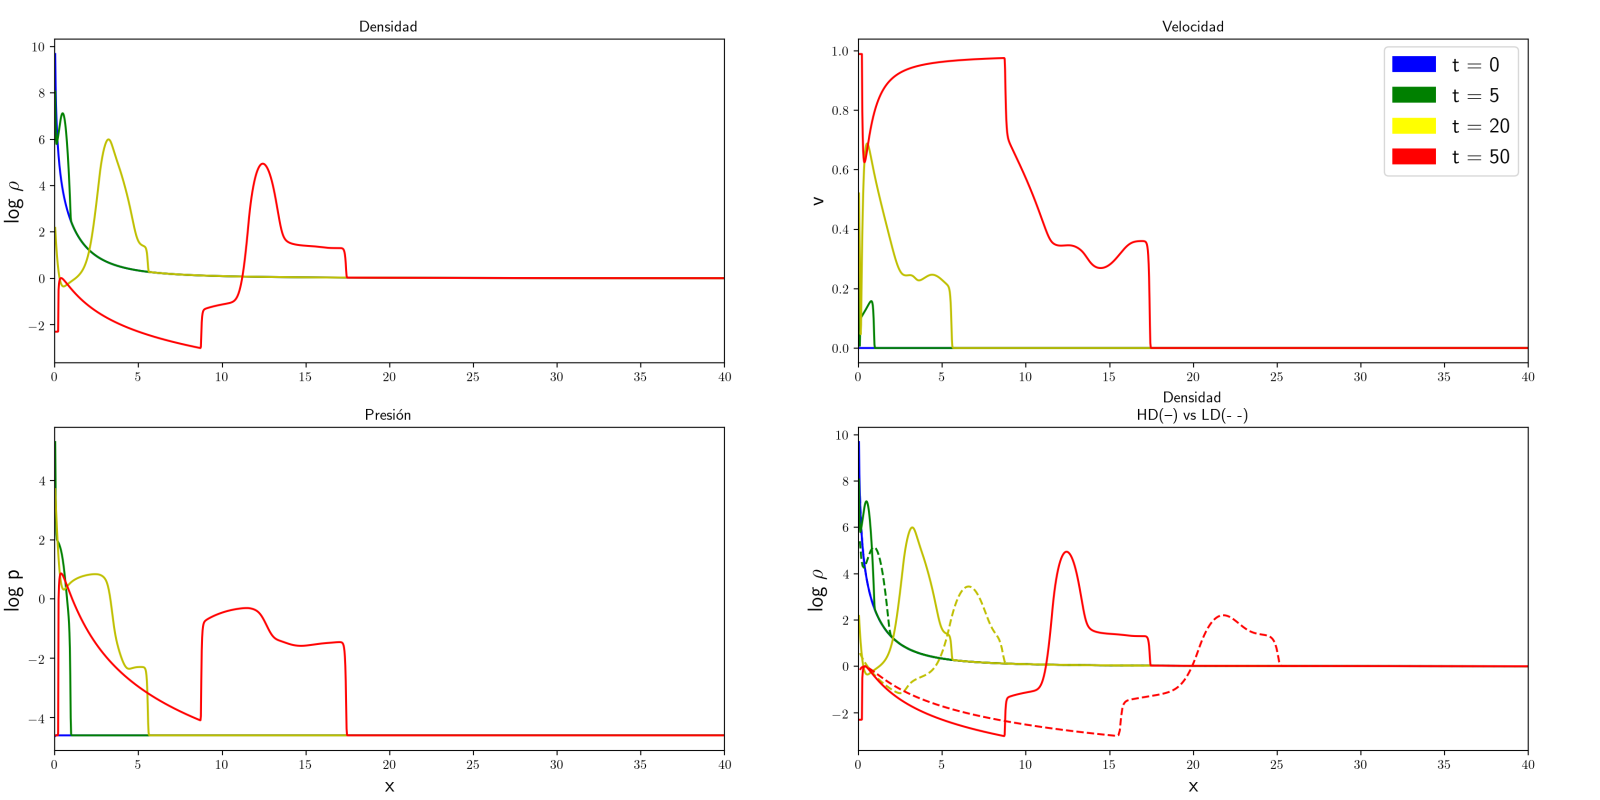
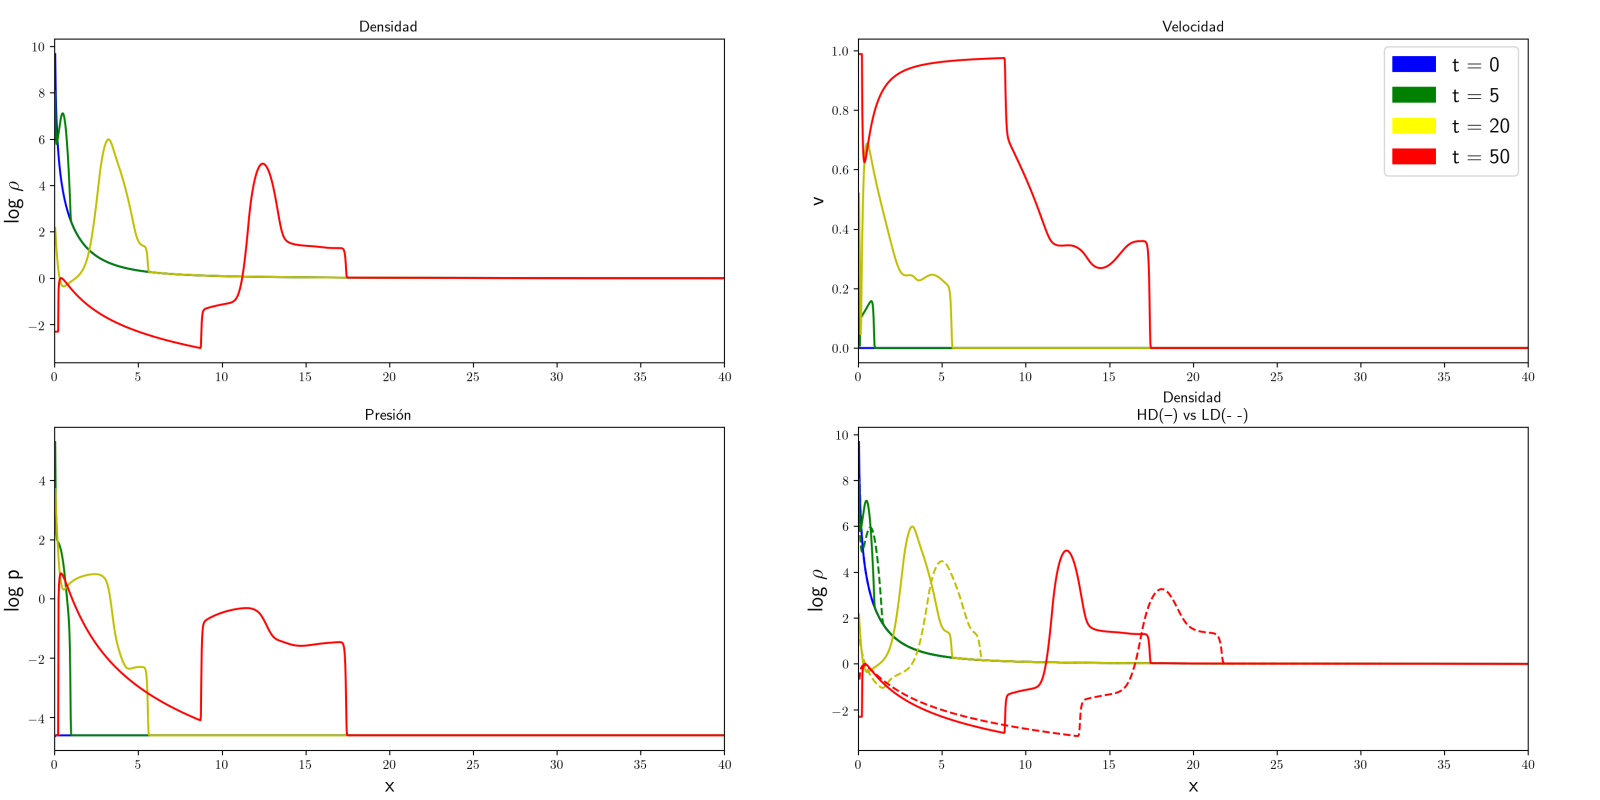
Discusion completa del capitulo 4

Changed region(s): [[0.5312, 0.6562, 0.9688, 0.9375], [0.6562, 0.6875, 0.6875, 0.7188]]

diff --git a/main.tex b/main.tex
@@ -2506,7 +2506,7 @@ La velocidad tiene un máximo en
 $x \approx 0.2$, donde alcanza  $v \approx 0.6$ al tiempo t = 5. {\color{blue} Para los tiempos t = 20, 50 ya no 
 presenta máximos sino que decae rápidamente en las posiciones $x \approx 6, \, 20$ respectivamente.}
 La presión no tiene un máximo local al tiempo t = 5, aunque si un cambio menos abrupto en $x = 1$. 
-{\color{blue} En los tiempos t = 20, 50 los maximos se situan en $x \approx 12$ y en $x \approx 30$}.
+{\color{blue} En los tiempos t = 20, 50 los máximos se situan en $x \approx 12$ y en $x \approx 30$}.
 En el panel inferior derecho, al comparar el logaritmo de la densidad en resoluciones de 3200x1600 y 1600x800,
 notamos que a diferencia del medio constante, no hay un desfase tan grande ya que para 
 $t = 5, \, x_{alta}- x_{baja} \approx 0$; para $t = 20, \, x_{alta}- x_{baja} \approx 0$ 
@@ -2519,14 +2519,29 @@ y para $t = 50, \, x_{alta}- x_{baja} \approx 1$}.
   \caption{{\color{red} Perfiles de densidad, presión y velocidad, similar a la Figura \ref{fig:comparacion_perfil_radial},
   a lo largo de $y = 10$. El panel de arriba a la izquierda muestra el logaritmo de la densidad, el de arriba a la derecha la
   velocidad, el de abajo a la izquierda el logaritmo de la presión y el panel de abajo a la derecha muestra la comparación entre
-  uno de mayor resolución (2000x1000, linea solida) con uno de baja resolución (1000X500,
+  uno de mayor resolución (2000x1000, linea sólida) con uno de baja resolución (1000X500,
   linea punteada). {\color{blue} Para tiempos t = 0, 5, 20, 50. La densidad decae como 
-  $ \rho \propto \frac{1}{x} $ }}}\label{fig:Decaimiento_lineal_densidad_jet}
+  $ \rho \propto x^{-1} $ }}}\label{fig:Decaimiento_lineal_densidad_jet}
 \end{figure}
 
 
 {\color{blue} En la Figura \ref{fig:Decaimiento_cuadratico_densidad_jet} se muestra la densidad de medio ambiente 
-que decae como $x \varpropto \frac{1}{x^2}$}
+que decae como $x \varpropto \frac{1}{x^2}$. Aquí podemos ver que los picos del logaritmo de la densidad estan en
+x = 1, 4, 12 con el logaritmo de la densidad $\log(\rho) \approx 7, \, 6.5, \, 6$ respectivamente. Por lo que a diferencia 
+del medio constante y el inversamente lineal los picos estan más cerca del cero. En la velocidad podemos observar
+que incrementa rápidamente a $v \approx 1.85$ en $x \approx 1$ al tiempo t = 5. Para el tiempo t = 20 la velocidad
+incrementa a $v \approx 0.7$ a $x \approx 1.5$. Al tiempo t = 50 la velocidad sube logaritmicamente del 
+punto $x \approx 1$ hasta el punto $ x = 8$ donde alcanza una velocidad de $v \approx 0.99$, donde desciende 
+a $v \approx 0.4$ en $x \approx 16$, lo cual, al comparar on los casos anteriores que hemos visto tiene un descenso menos 
+menos abrupto. En el caso del logaritmo de la presión, al tiempo t = 5, desciende rápidamente en $x \approx 0.5$.
+En el tiempo t = 20, la presión desciende exponencialmente hasta el punto $x \approx 1$, donde mantien un valor constante de 
+$\log(\rho) \approx 1$ hasta el punto $x \approx 3$ donde desciende hasta $\log(\rho) = -4.6$. Para el tiempo t = 50
+la presión desciende exponencialmente del punto $x \approx 1$ donde $\log(\rho) \approx 1$, hasta $x \approx 8$ donde 
+$\log(\rho) \approx -4$ para luego incrementar hasta $\log(\rho) \approx 0 $ y volver a descender en $x \approx 17.5$ a 
+$\log(\rho) = -4.3$. Al comparar las resoluciones de 3200x1600 con la de 1600x800 se vuelve a ver un desfase,
+ya que para $t = 5, \, x_{alta}- x_{baja} \approx 1$; para $t = 20, \, x_{alta}- x_{baja} \approx 3$ 
+y para $t = 50, \, x_{alta}- x_{baja} \approx 6$. Tambien se observó un desfase en los máximos, ya que para los 3 picos
+se observa $\log(\rho)_{alta} - \log(\rho)_{baja} \approx 2$}. 
 
 
 \begin{figure}
@@ -2535,21 +2550,30 @@ que decae como $x \varpropto \frac{1}{x^2}$}
   \caption{{\color{red} Perfiles de densidad, presión y velocidad, similar a la Figura \ref{fig:comparacion_perfil_radial},
   a lo largo de $y = 10$. El panel de arriba a la izquierda muestra el logaritmo de la densidad, el de arriba a la derecha la
   velocidad, el de abajo a la izquierda el logaritmo de la presión y el panel de abajo a la derecha muestra la comparación entre
-  uno de mayor resolución (2000x1000, linea solida) con uno de baja resolución (1000X500,
-  linea punteada). Los colores son para diferenciar los tiempos.}}\label{fig:Decaimiento_cuadratico_densidad_jet}
+  uno de mayor resolución (3200x1600, linea sólida) con uno de baja resolución (1600x800,
+  linea punteada). {\color{blue} Para tiempos t = 0, 5, 20, 50, la densidad decae como 
+  $ \rho \propto x^{-2} $ }}}\label{fig:Decaimiento_cuadratico_densidad_jet}
 \end{figure}
 
 
-
-Las condiciones de frontera son las mismas a la de la anterior sección. 
-La evolución temporal del jet se muestra en las siguiente 
+{\color{blue} En la Figura \ref{fig:perfiles_comparacion_jet} se muestra la comparación que hay cuando la densidad del medio
+ambiente cambia constantemente ($\rho \varpropto k$), cuando varia inversamente lineal ($\rho \varpropto x^{-1}$) y 
+cuando varia inversamente cuadrático ($\rho \varpropto x^{-2}$). Podemos observar que se presentan 2 máximos. Para el
+decaimiento inversamente cuadrático presenta un pico en $x \approx 1$ con $\log(\rho) = 0$, mientras que el lineal mantiene 
+su pico en $x \approx 7$ y el constante lo hace en  $x \approx 5$ con $\log(\rho) = -1$ y $\log(\rho) = -1.5$ respectivamente. 
+El segundo máximo está en $x \approx 12$ para el cuadrático, en $x \approx 20$ para el constante y en $x \approx 33$ para
+el lineal con $\log(\rho) = 5, \, 4, \, 1$ respectivamente. Por lo que el decaimiento cuadrático tiene una mayor densidad
+que el lineal y el constante a pesar de presentar los mismos valores iniciales.} 
 
 
 
 \begin{figure}
   \centering
     \includegraphics[width=1\textwidth]{./Figuras/jet/perfiles/densidades_comparacion.png}
-  \caption{}\label{fig:perfiles_comparacion_jet}
+  \caption{Gráfica de comparación de la posición vs el logaritmo de la densidad 
+  donde el medio ambiente es constante $\rho \varpropto k$ (verde), varía inversamente lineal
+  $\rho \varpropto x^{-1}$ (amarillo) y varía inversamente cuadrático $\rho \varpropto x^{-2}$ (rojo)
+  al tiempo t = 50 }\label{fig:perfiles_comparacion_jet}
 \end{figure}
 
 
